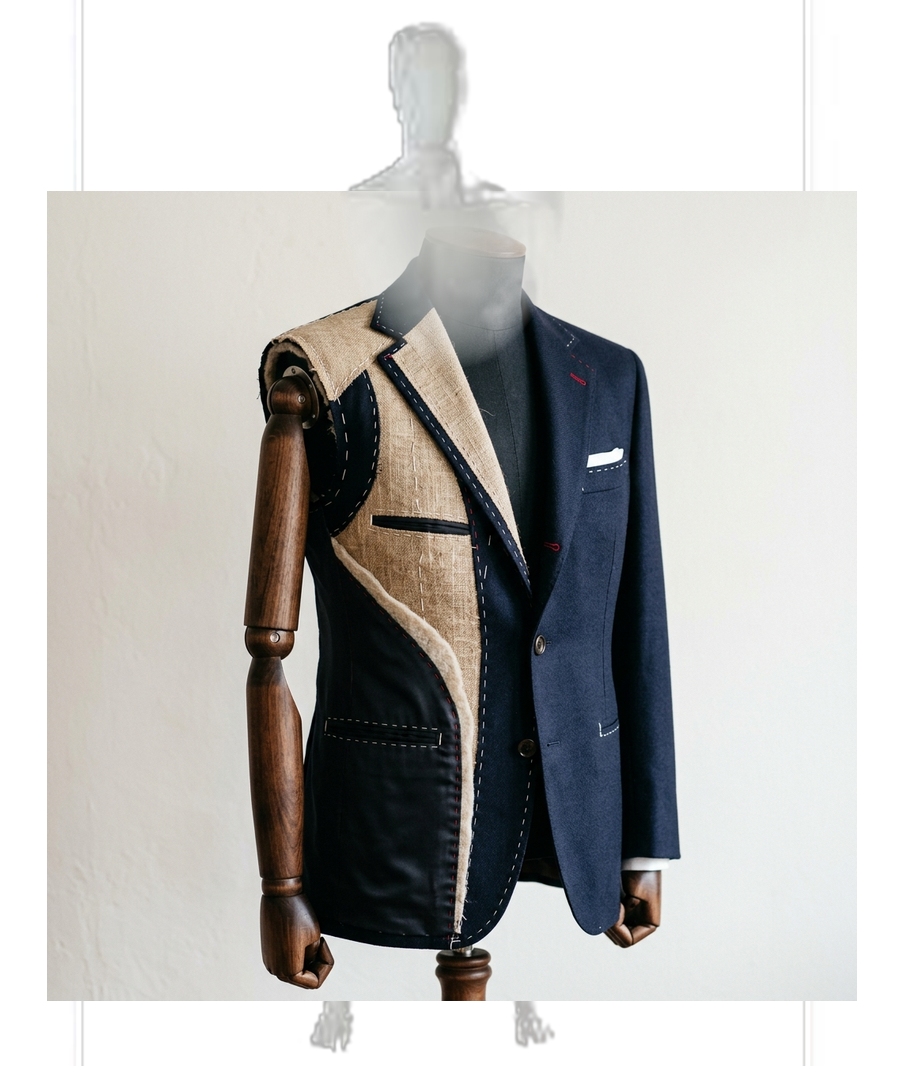
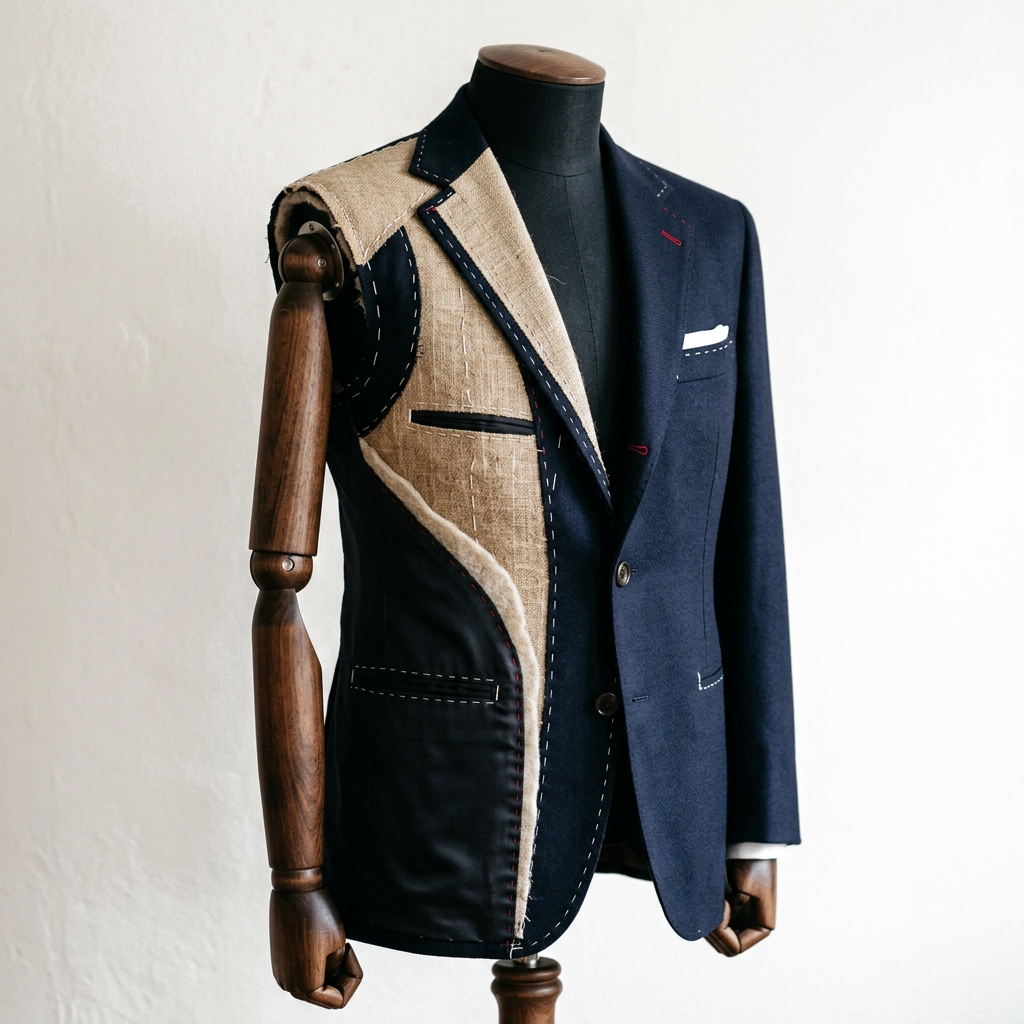
Fix: Remove all background boxes and double mannequins, use clean fresh single isolated suit mannequin per frame

diff --git a/index.html b/index.html
@@ -1244,7 +1244,7 @@
         <div style="max-width:1380px;margin:0 auto;height:100%;position:relative;overflow:hidden;background:#FFFFFF;">
 
           <!-- CENTERED HEADER -->
-          <div style="position:absolute;top:14px;left:0;right:0;z-index:20;text-align:center;">
+          <div style="position:absolute;top:16px;left:0;right:0;z-index:20;text-align:center;">
             <div style="display:flex;align-items:center;justify-content:center;gap:16px;">
               <div style="height:1px;width:60px;background:rgba(28,42,66,.25);"></div>
               <h2 style="font-family:Georgia,serif;font-weight:700;margin:0;color:#0F1A2A;
@@ -1263,10 +1263,10 @@
               <!-- ═══════════════════════════════════════════ -->
               <div style="width:25%;flex-shrink:0;height:100%;position:relative;display:flex;align-items:center;justify-content:center;background:#FFFFFF;">
 
-                <!-- SINGLE HD PHOTOGRAPHIC SUIT ON WHITE MANNEQUIN -->
-                <img src="assets/frame_1_anatomy.png" alt="Charcoal Bespoke Suit HD White Mannequin"
-                  style="height:78vh;max-height:580px;object-fit:contain;position:relative;z-index:5;
-                  filter:drop-shadow(0 16px 32px rgba(0,0,0,.14));">
+                <!-- SINGLE FRESH ISOLATED SUIT MANNEQUIN -->
+                <img src="assets/frame_1_anatomy.png" alt="Charcoal Bespoke Suit Mannequin"
+                  style="height:72vh;max-height:540px;object-fit:contain;position:relative;z-index:5;
+                  filter:drop-shadow(0 16px 32px rgba(0,0,0,.12));">
 
                 <!-- LEFT CIRCULAR DETAIL BADGES (UNIQUE MACRO PHOTOS) -->
                 <div style="position:absolute;left:32px;top:15%;z-index:10;display:flex;align-items:center;gap:12px;width:220px;">
@@ -1339,28 +1339,28 @@
                 <!-- SVG L-SHAPED POINTER LINES -->
                 <svg viewBox="0 0 1000 600" style="position:absolute;inset:0;width:100%;height:100%;pointer-events:none;z-index:8;overflow:visible;">
                   <!-- Left Line 1: Shoulder -->
-                  <polyline points="180,120 350,120 350,155 425,155" stroke="#1C2A42" stroke-width="1.8" stroke-dasharray="6,4" fill="none" opacity=".8"/>
-                  <circle cx="425" cy="155" r="5" fill="#FFFFFF" stroke="#1C2A42" stroke-width="2.5"/><circle cx="425" cy="155" r="2" fill="#1C2A42"/>
+                  <polyline points="180,120 350,120 350,160 425,160" stroke="#1C2A42" stroke-width="1.8" stroke-dasharray="6,4" fill="none" opacity=".8"/>
+                  <circle cx="425" cy="160" r="5" fill="#FFFFFF" stroke="#1C2A42" stroke-width="2.5"/><circle cx="425" cy="160" r="2" fill="#1C2A42"/>
 
                   <!-- Left Line 2: Milanese -->
-                  <polyline points="180,250 360,250 360,205 460,205" stroke="#1C2A42" stroke-width="1.8" stroke-dasharray="6,4" fill="none" opacity=".8"/>
-                  <circle cx="460" cy="205" r="5" fill="#FFFFFF" stroke="#1C2A42" stroke-width="2.5"/><circle cx="460" cy="205" r="2" fill="#1C2A42"/>
+                  <polyline points="180,250 360,250 360,210 455,210" stroke="#1C2A42" stroke-width="1.8" stroke-dasharray="6,4" fill="none" opacity=".8"/>
+                  <circle cx="455" cy="210" r="5" fill="#FFFFFF" stroke="#1C2A42" stroke-width="2.5"/><circle cx="455" cy="210" r="2" fill="#1C2A42"/>
 
                   <!-- Left Line 3: Sweat Shields -->
-                  <polyline points="180,380 340,380 340,285 440,285" stroke="#1C2A42" stroke-width="1.8" stroke-dasharray="6,4" fill="none" opacity=".8"/>
-                  <circle cx="440" cy="285" r="5" fill="#FFFFFF" stroke="#1C2A42" stroke-width="2.5"/><circle cx="440" cy="285" r="2" fill="#1C2A42"/>
+                  <polyline points="180,380 340,380 340,295 445,295" stroke="#1C2A42" stroke-width="1.8" stroke-dasharray="6,4" fill="none" opacity=".8"/>
+                  <circle cx="445" cy="295" r="5" fill="#FFFFFF" stroke="#1C2A42" stroke-width="2.5"/><circle cx="445" cy="295" r="2" fill="#1C2A42"/>
 
                   <!-- Right Line 1: Peak Lapel -->
-                  <polyline points="820,120 650,120 650,195 540,195" stroke="#8B3A2B" stroke-width="1.8" stroke-dasharray="6,4" fill="none" opacity=".8"/>
-                  <circle cx="540" cy="195" r="5" fill="#FFFFFF" stroke="#8B3A2B" stroke-width="2.5"/><circle cx="540" cy="195" r="2" fill="#8B3A2B"/>
+                  <polyline points="820,120 650,120 650,210 545,210" stroke="#8B3A2B" stroke-width="1.8" stroke-dasharray="6,4" fill="none" opacity=".8"/>
+                  <circle cx="545" cy="210" r="5" fill="#FFFFFF" stroke="#8B3A2B" stroke-width="2.5"/><circle cx="545" cy="210" r="2" fill="#8B3A2B"/>
 
                   <!-- Right Line 2: Surgeons Cuffs -->
-                  <polyline points="820,250 680,250 680,325 580,325" stroke="#8B3A2B" stroke-width="1.8" stroke-dasharray="6,4" fill="none" opacity=".8"/>
-                  <circle cx="580" cy="325" r="5" fill="#FFFFFF" stroke="#8B3A2B" stroke-width="2.5"/><circle cx="580" cy="325" r="2" fill="#8B3A2B"/>
+                  <polyline points="820,250 680,250 680,350 585,350" stroke="#8B3A2B" stroke-width="1.8" stroke-dasharray="6,4" fill="none" opacity=".8"/>
+                  <circle cx="585" cy="350" r="5" fill="#FFFFFF" stroke="#8B3A2B" stroke-width="2.5"/><circle cx="585" cy="350" r="2" fill="#8B3A2B"/>
 
                   <!-- Right Line 3: Full Canvas -->
-                  <polyline points="820,380 640,380 640,290 530,290" stroke="#8B3A2B" stroke-width="1.8" stroke-dasharray="6,4" fill="none" opacity=".8"/>
-                  <circle cx="530" cy="290" r="5" fill="#FFFFFF" stroke="#8B3A2B" stroke-width="2.5"/><circle cx="530" cy="290" r="2" fill="#8B3A2B"/>
+                  <polyline points="820,380 640,380 640,295 540,295" stroke="#8B3A2B" stroke-width="1.8" stroke-dasharray="6,4" fill="none" opacity=".8"/>
+                  <circle cx="540" cy="295" r="5" fill="#FFFFFF" stroke="#8B3A2B" stroke-width="2.5"/><circle cx="540" cy="295" r="2" fill="#8B3A2B"/>
                 </svg>
               </div>
 
@@ -1368,10 +1368,10 @@
               <!-- FRAME 2 — COGNAC TWEED   COGNAC THEME      -->
               <!-- ═══════════════════════════════════════════ -->
               <div style="width:25%;flex-shrink:0;height:100%;position:relative;display:flex;align-items:center;justify-content:center;background:#FFFFFF;">
-                <!-- SINGLE HD PHOTOGRAPHIC SUIT ON WHITE MANNEQUIN -->
-                <img src="assets/frame_2_canvas.png" alt="Cognac Tweed Suit HD White Mannequin"
-                  style="height:78vh;max-height:580px;object-fit:contain;position:relative;z-index:5;
-                  filter:drop-shadow(0 16px 32px rgba(0,0,0,.14));">
+                <!-- SINGLE FRESH ISOLATED SUIT MANNEQUIN -->
+                <img src="assets/frame_2_canvas.png" alt="Cognac Tweed Suit Mannequin"
+                  style="height:72vh;max-height:540px;object-fit:contain;position:relative;z-index:5;
+                  filter:drop-shadow(0 16px 32px rgba(0,0,0,.12));">
 
                 <!-- LEFT CIRCULAR DETAIL BADGES (UNIQUE MACRO PHOTOS) -->
                 <div style="position:absolute;left:32px;top:15%;z-index:10;display:flex;align-items:center;gap:12px;width:220px;">
@@ -1443,8 +1443,8 @@
 
                 <!-- SVG L-SHAPED POINTER LINES -->
                 <svg viewBox="0 0 1000 600" style="position:absolute;inset:0;width:100%;height:100%;pointer-events:none;z-index:8;overflow:visible;">
-                  <polyline points="180,120 350,120 350,150 460,150" stroke="#5C2E10" stroke-width="1.8" stroke-dasharray="6,4" fill="none" opacity=".8"/>
-                  <circle cx="460" cy="150" r="5" fill="#FFFFFF" stroke="#5C2E10" stroke-width="2.5"/><circle cx="460" cy="150" r="2" fill="#5C2E10"/>
+                  <polyline points="180,120 350,120 350,160 460,160" stroke="#5C2E10" stroke-width="1.8" stroke-dasharray="6,4" fill="none" opacity=".8"/>
+                  <circle cx="460" cy="160" r="5" fill="#FFFFFF" stroke="#5C2E10" stroke-width="2.5"/><circle cx="460" cy="160" r="2" fill="#5C2E10"/>
 
                   <polyline points="180,250 360,250 360,290 430,290" stroke="#5C2E10" stroke-width="1.8" stroke-dasharray="6,4" fill="none" opacity=".8"/>
                   <circle cx="430" cy="290" r="5" fill="#FFFFFF" stroke="#5C2E10" stroke-width="2.5"/><circle cx="430" cy="290" r="2" fill="#5C2E10"/>
@@ -1452,14 +1452,14 @@
                   <polyline points="180,380 340,380 340,300 500,300" stroke="#5C2E10" stroke-width="1.8" stroke-dasharray="6,4" fill="none" opacity=".8"/>
                   <circle cx="500" cy="300" r="5" fill="#FFFFFF" stroke="#5C2E10" stroke-width="2.5"/><circle cx="500" cy="300" r="2" fill="#5C2E10"/>
 
-                  <polyline points="820,120 650,120 650,200 550,200" stroke="#A06B2A" stroke-width="1.8" stroke-dasharray="6,4" fill="none" opacity=".8"/>
-                  <circle cx="550" cy="200" r="5" fill="#FFFFFF" stroke="#A06B2A" stroke-width="2.5"/><circle cx="550" cy="200" r="2" fill="#A06B2A"/>
+                  <polyline points="820,120 650,120 650,210 550,210" stroke="#A06B2A" stroke-width="1.8" stroke-dasharray="6,4" fill="none" opacity=".8"/>
+                  <circle cx="550" cy="210" r="5" fill="#FFFFFF" stroke="#A06B2A" stroke-width="2.5"/><circle cx="550" cy="210" r="2" fill="#A06B2A"/>
 
-                  <polyline points="820,250 680,250 680,310 570,310" stroke="#A06B2A" stroke-width="1.8" stroke-dasharray="6,4" fill="none" opacity=".8"/>
-                  <circle cx="570" cy="310" r="5" fill="#FFFFFF" stroke="#A06B2A" stroke-width="2.5"/><circle cx="570" cy="310" r="2" fill="#A06B2A"/>
+                  <polyline points="820,250 680,250 680,320 570,320" stroke="#A06B2A" stroke-width="1.8" stroke-dasharray="6,4" fill="none" opacity=".8"/>
+                  <circle cx="570" cy="320" r="5" fill="#FFFFFF" stroke="#A06B2A" stroke-width="2.5"/><circle cx="570" cy="320" r="2" fill="#A06B2A"/>
 
-                  <polyline points="820,380 640,380 640,280 530,280" stroke="#A06B2A" stroke-width="1.8" stroke-dasharray="6,4" fill="none" opacity=".8"/>
-                  <circle cx="530" cy="280" r="5" fill="#FFFFFF" stroke="#A06B2A" stroke-width="2.5"/><circle cx="530" cy="280" r="2" fill="#A06B2A"/>
+                  <polyline points="820,380 640,380 640,295 530,295" stroke="#A06B2A" stroke-width="1.8" stroke-dasharray="6,4" fill="none" opacity=".8"/>
+                  <circle cx="530" cy="295" r="5" fill="#FFFFFF" stroke="#A06B2A" stroke-width="2.5"/><circle cx="530" cy="295" r="2" fill="#A06B2A"/>
                 </svg>
               </div>
 
@@ -1467,10 +1467,10 @@
               <!-- FRAME 3 — NAVY PINSTRIPE  GOLD/NAVY THEME  -->
               <!-- ═══════════════════════════════════════════ -->
               <div style="width:25%;flex-shrink:0;height:100%;position:relative;display:flex;align-items:center;justify-content:center;background:#FFFFFF;">
-                <!-- SINGLE HD PHOTOGRAPHIC SUIT ON WHITE MANNEQUIN -->
-                <img src="assets/frame_3_measure.png" alt="Navy Pinstripe Suit HD White Mannequin"
-                  style="height:78vh;max-height:580px;object-fit:contain;position:relative;z-index:5;
-                  filter:drop-shadow(0 16px 32px rgba(0,0,0,.14));">
+                <!-- SINGLE FRESH ISOLATED SUIT MANNEQUIN -->
+                <img src="assets/frame_3_measure.png" alt="Navy Pinstripe Suit Mannequin"
+                  style="height:72vh;max-height:540px;object-fit:contain;position:relative;z-index:5;
+                  filter:drop-shadow(0 16px 32px rgba(0,0,0,.12));">
 
                 <!-- LEFT CIRCULAR DETAIL BADGES (UNIQUE MACRO PHOTOS) -->
                 <div style="position:absolute;left:32px;top:15%;z-index:10;display:flex;align-items:center;gap:12px;width:220px;">
@@ -1566,10 +1566,10 @@
               <!-- FRAME 4 — VELVET TUXEDO   ROYAL GOLD THEME -->
               <!-- ═══════════════════════════════════════════ -->
               <div style="width:25%;flex-shrink:0;height:100%;position:relative;display:flex;align-items:center;justify-content:center;background:#FFFFFF;">
-                <!-- SINGLE HD PHOTOGRAPHIC SUIT ON WHITE MANNEQUIN -->
-                <img src="assets/frame_4_masterpiece.png" alt="Royal Velvet Tuxedo HD White Mannequin"
-                  style="height:78vh;max-height:580px;object-fit:contain;position:relative;z-index:5;
-                  filter:drop-shadow(0 16px 32px rgba(0,0,0,.14));">
+                <!-- SINGLE FRESH ISOLATED SUIT MANNEQUIN -->
+                <img src="assets/frame_4_masterpiece.png" alt="Royal Velvet Tuxedo Mannequin"
+                  style="height:72vh;max-height:540px;object-fit:contain;position:relative;z-index:5;
+                  filter:drop-shadow(0 16px 32px rgba(0,0,0,.12));">
 
                 <!-- LEFT CIRCULAR DETAIL BADGES (UNIQUE MACRO PHOTOS) -->
                 <div style="position:absolute;left:32px;top:15%;z-index:10;display:flex;align-items:center;gap:12px;width:220px;">

diff --git a/anatomy_section.html b/anatomy_section.html
@@ -8,7 +8,7 @@
         <div style="max-width:1380px;margin:0 auto;height:100%;position:relative;overflow:hidden;background:#FFFFFF;">
 
           <!-- CENTERED HEADER -->
-          <div style="position:absolute;top:14px;left:0;right:0;z-index:20;text-align:center;">
+          <div style="position:absolute;top:16px;left:0;right:0;z-index:20;text-align:center;">
             <div style="display:flex;align-items:center;justify-content:center;gap:16px;">
               <div style="height:1px;width:60px;background:rgba(28,42,66,.25);"></div>
               <h2 style="font-family:Georgia,serif;font-weight:700;margin:0;color:#0F1A2A;
@@ -27,10 +27,10 @@
               <!-- ═══════════════════════════════════════════ -->
               <div style="width:25%;flex-shrink:0;height:100%;position:relative;display:flex;align-items:center;justify-content:center;background:#FFFFFF;">
 
-                <!-- SINGLE HD PHOTOGRAPHIC SUIT ON WHITE MANNEQUIN -->
-                <img src="assets/frame_1_anatomy.png" alt="Charcoal Bespoke Suit HD White Mannequin"
-                  style="height:78vh;max-height:580px;object-fit:contain;position:relative;z-index:5;
-                  filter:drop-shadow(0 16px 32px rgba(0,0,0,.14));">
+                <!-- SINGLE FRESH ISOLATED SUIT MANNEQUIN -->
+                <img src="assets/frame_1_anatomy.png" alt="Charcoal Bespoke Suit Mannequin"
+                  style="height:72vh;max-height:540px;object-fit:contain;position:relative;z-index:5;
+                  filter:drop-shadow(0 16px 32px rgba(0,0,0,.12));">
 
                 <!-- LEFT CIRCULAR DETAIL BADGES (UNIQUE MACRO PHOTOS) -->
                 <div style="position:absolute;left:32px;top:15%;z-index:10;display:flex;align-items:center;gap:12px;width:220px;">
@@ -103,28 +103,28 @@
                 <!-- SVG L-SHAPED POINTER LINES -->
                 <svg viewBox="0 0 1000 600" style="position:absolute;inset:0;width:100%;height:100%;pointer-events:none;z-index:8;overflow:visible;">
                   <!-- Left Line 1: Shoulder -->
-                  <polyline points="180,120 350,120 350,155 425,155" stroke="#1C2A42" stroke-width="1.8" stroke-dasharray="6,4" fill="none" opacity=".8"/>
-                  <circle cx="425" cy="155" r="5" fill="#FFFFFF" stroke="#1C2A42" stroke-width="2.5"/><circle cx="425" cy="155" r="2" fill="#1C2A42"/>
+                  <polyline points="180,120 350,120 350,160 425,160" stroke="#1C2A42" stroke-width="1.8" stroke-dasharray="6,4" fill="none" opacity=".8"/>
+                  <circle cx="425" cy="160" r="5" fill="#FFFFFF" stroke="#1C2A42" stroke-width="2.5"/><circle cx="425" cy="160" r="2" fill="#1C2A42"/>
 
                   <!-- Left Line 2: Milanese -->
-                  <polyline points="180,250 360,250 360,205 460,205" stroke="#1C2A42" stroke-width="1.8" stroke-dasharray="6,4" fill="none" opacity=".8"/>
-                  <circle cx="460" cy="205" r="5" fill="#FFFFFF" stroke="#1C2A42" stroke-width="2.5"/><circle cx="460" cy="205" r="2" fill="#1C2A42"/>
+                  <polyline points="180,250 360,250 360,210 455,210" stroke="#1C2A42" stroke-width="1.8" stroke-dasharray="6,4" fill="none" opacity=".8"/>
+                  <circle cx="455" cy="210" r="5" fill="#FFFFFF" stroke="#1C2A42" stroke-width="2.5"/><circle cx="455" cy="210" r="2" fill="#1C2A42"/>
 
                   <!-- Left Line 3: Sweat Shields -->
-                  <polyline points="180,380 340,380 340,285 440,285" stroke="#1C2A42" stroke-width="1.8" stroke-dasharray="6,4" fill="none" opacity=".8"/>
-                  <circle cx="440" cy="285" r="5" fill="#FFFFFF" stroke="#1C2A42" stroke-width="2.5"/><circle cx="440" cy="285" r="2" fill="#1C2A42"/>
+                  <polyline points="180,380 340,380 340,295 445,295" stroke="#1C2A42" stroke-width="1.8" stroke-dasharray="6,4" fill="none" opacity=".8"/>
+                  <circle cx="445" cy="295" r="5" fill="#FFFFFF" stroke="#1C2A42" stroke-width="2.5"/><circle cx="445" cy="295" r="2" fill="#1C2A42"/>
 
                   <!-- Right Line 1: Peak Lapel -->
-                  <polyline points="820,120 650,120 650,195 540,195" stroke="#8B3A2B" stroke-width="1.8" stroke-dasharray="6,4" fill="none" opacity=".8"/>
-                  <circle cx="540" cy="195" r="5" fill="#FFFFFF" stroke="#8B3A2B" stroke-width="2.5"/><circle cx="540" cy="195" r="2" fill="#8B3A2B"/>
+                  <polyline points="820,120 650,120 650,210 545,210" stroke="#8B3A2B" stroke-width="1.8" stroke-dasharray="6,4" fill="none" opacity=".8"/>
+                  <circle cx="545" cy="210" r="5" fill="#FFFFFF" stroke="#8B3A2B" stroke-width="2.5"/><circle cx="545" cy="210" r="2" fill="#8B3A2B"/>
 
                   <!-- Right Line 2: Surgeons Cuffs -->
-                  <polyline points="820,250 680,250 680,325 580,325" stroke="#8B3A2B" stroke-width="1.8" stroke-dasharray="6,4" fill="none" opacity=".8"/>
-                  <circle cx="580" cy="325" r="5" fill="#FFFFFF" stroke="#8B3A2B" stroke-width="2.5"/><circle cx="580" cy="325" r="2" fill="#8B3A2B"/>
+                  <polyline points="820,250 680,250 680,350 585,350" stroke="#8B3A2B" stroke-width="1.8" stroke-dasharray="6,4" fill="none" opacity=".8"/>
+                  <circle cx="585" cy="350" r="5" fill="#FFFFFF" stroke="#8B3A2B" stroke-width="2.5"/><circle cx="585" cy="350" r="2" fill="#8B3A2B"/>
 
                   <!-- Right Line 3: Full Canvas -->
-                  <polyline points="820,380 640,380 640,290 530,290" stroke="#8B3A2B" stroke-width="1.8" stroke-dasharray="6,4" fill="none" opacity=".8"/>
-                  <circle cx="530" cy="290" r="5" fill="#FFFFFF" stroke="#8B3A2B" stroke-width="2.5"/><circle cx="530" cy="290" r="2" fill="#8B3A2B"/>
+                  <polyline points="820,380 640,380 640,295 540,295" stroke="#8B3A2B" stroke-width="1.8" stroke-dasharray="6,4" fill="none" opacity=".8"/>
+                  <circle cx="540" cy="295" r="5" fill="#FFFFFF" stroke="#8B3A2B" stroke-width="2.5"/><circle cx="540" cy="295" r="2" fill="#8B3A2B"/>
                 </svg>
               </div>
 
@@ -132,10 +132,10 @@
               <!-- FRAME 2 — COGNAC TWEED   COGNAC THEME      -->
               <!-- ═══════════════════════════════════════════ -->
               <div style="width:25%;flex-shrink:0;height:100%;position:relative;display:flex;align-items:center;justify-content:center;background:#FFFFFF;">
-                <!-- SINGLE HD PHOTOGRAPHIC SUIT ON WHITE MANNEQUIN -->
-                <img src="assets/frame_2_canvas.png" alt="Cognac Tweed Suit HD White Mannequin"
-                  style="height:78vh;max-height:580px;object-fit:contain;position:relative;z-index:5;
-                  filter:drop-shadow(0 16px 32px rgba(0,0,0,.14));">
+                <!-- SINGLE FRESH ISOLATED SUIT MANNEQUIN -->
+                <img src="assets/frame_2_canvas.png" alt="Cognac Tweed Suit Mannequin"
+                  style="height:72vh;max-height:540px;object-fit:contain;position:relative;z-index:5;
+                  filter:drop-shadow(0 16px 32px rgba(0,0,0,.12));">
 
                 <!-- LEFT CIRCULAR DETAIL BADGES (UNIQUE MACRO PHOTOS) -->
                 <div style="position:absolute;left:32px;top:15%;z-index:10;display:flex;align-items:center;gap:12px;width:220px;">
@@ -207,8 +207,8 @@
 
                 <!-- SVG L-SHAPED POINTER LINES -->
                 <svg viewBox="0 0 1000 600" style="position:absolute;inset:0;width:100%;height:100%;pointer-events:none;z-index:8;overflow:visible;">
-                  <polyline points="180,120 350,120 350,150 460,150" stroke="#5C2E10" stroke-width="1.8" stroke-dasharray="6,4" fill="none" opacity=".8"/>
-                  <circle cx="460" cy="150" r="5" fill="#FFFFFF" stroke="#5C2E10" stroke-width="2.5"/><circle cx="460" cy="150" r="2" fill="#5C2E10"/>
+                  <polyline points="180,120 350,120 350,160 460,160" stroke="#5C2E10" stroke-width="1.8" stroke-dasharray="6,4" fill="none" opacity=".8"/>
+                  <circle cx="460" cy="160" r="5" fill="#FFFFFF" stroke="#5C2E10" stroke-width="2.5"/><circle cx="460" cy="160" r="2" fill="#5C2E10"/>
 
                   <polyline points="180,250 360,250 360,290 430,290" stroke="#5C2E10" stroke-width="1.8" stroke-dasharray="6,4" fill="none" opacity=".8"/>
                   <circle cx="430" cy="290" r="5" fill="#FFFFFF" stroke="#5C2E10" stroke-width="2.5"/><circle cx="430" cy="290" r="2" fill="#5C2E10"/>
@@ -216,14 +216,14 @@
                   <polyline points="180,380 340,380 340,300 500,300" stroke="#5C2E10" stroke-width="1.8" stroke-dasharray="6,4" fill="none" opacity=".8"/>
                   <circle cx="500" cy="300" r="5" fill="#FFFFFF" stroke="#5C2E10" stroke-width="2.5"/><circle cx="500" cy="300" r="2" fill="#5C2E10"/>
 
-                  <polyline points="820,120 650,120 650,200 550,200" stroke="#A06B2A" stroke-width="1.8" stroke-dasharray="6,4" fill="none" opacity=".8"/>
-                  <circle cx="550" cy="200" r="5" fill="#FFFFFF" stroke="#A06B2A" stroke-width="2.5"/><circle cx="550" cy="200" r="2" fill="#A06B2A"/>
+                  <polyline points="820,120 650,120 650,210 550,210" stroke="#A06B2A" stroke-width="1.8" stroke-dasharray="6,4" fill="none" opacity=".8"/>
+                  <circle cx="550" cy="210" r="5" fill="#FFFFFF" stroke="#A06B2A" stroke-width="2.5"/><circle cx="550" cy="210" r="2" fill="#A06B2A"/>
 
-                  <polyline points="820,250 680,250 680,310 570,310" stroke="#A06B2A" stroke-width="1.8" stroke-dasharray="6,4" fill="none" opacity=".8"/>
-                  <circle cx="570" cy="310" r="5" fill="#FFFFFF" stroke="#A06B2A" stroke-width="2.5"/><circle cx="570" cy="310" r="2" fill="#A06B2A"/>
+                  <polyline points="820,250 680,250 680,320 570,320" stroke="#A06B2A" stroke-width="1.8" stroke-dasharray="6,4" fill="none" opacity=".8"/>
+                  <circle cx="570" cy="320" r="5" fill="#FFFFFF" stroke="#A06B2A" stroke-width="2.5"/><circle cx="570" cy="320" r="2" fill="#A06B2A"/>
 
-                  <polyline points="820,380 640,380 640,280 530,280" stroke="#A06B2A" stroke-width="1.8" stroke-dasharray="6,4" fill="none" opacity=".8"/>
-                  <circle cx="530" cy="280" r="5" fill="#FFFFFF" stroke="#A06B2A" stroke-width="2.5"/><circle cx="530" cy="280" r="2" fill="#A06B2A"/>
+                  <polyline points="820,380 640,380 640,295 530,295" stroke="#A06B2A" stroke-width="1.8" stroke-dasharray="6,4" fill="none" opacity=".8"/>
+                  <circle cx="530" cy="295" r="5" fill="#FFFFFF" stroke="#A06B2A" stroke-width="2.5"/><circle cx="530" cy="295" r="2" fill="#A06B2A"/>
                 </svg>
               </div>
 
@@ -231,10 +231,10 @@
               <!-- FRAME 3 — NAVY PINSTRIPE  GOLD/NAVY THEME  -->
               <!-- ═══════════════════════════════════════════ -->
               <div style="width:25%;flex-shrink:0;height:100%;position:relative;display:flex;align-items:center;justify-content:center;background:#FFFFFF;">
-                <!-- SINGLE HD PHOTOGRAPHIC SUIT ON WHITE MANNEQUIN -->
-                <img src="assets/frame_3_measure.png" alt="Navy Pinstripe Suit HD White Mannequin"
-                  style="height:78vh;max-height:580px;object-fit:contain;position:relative;z-index:5;
-                  filter:drop-shadow(0 16px 32px rgba(0,0,0,.14));">
+                <!-- SINGLE FRESH ISOLATED SUIT MANNEQUIN -->
+                <img src="assets/frame_3_measure.png" alt="Navy Pinstripe Suit Mannequin"
+                  style="height:72vh;max-height:540px;object-fit:contain;position:relative;z-index:5;
+                  filter:drop-shadow(0 16px 32px rgba(0,0,0,.12));">
 
                 <!-- LEFT CIRCULAR DETAIL BADGES (UNIQUE MACRO PHOTOS) -->
                 <div style="position:absolute;left:32px;top:15%;z-index:10;display:flex;align-items:center;gap:12px;width:220px;">
@@ -330,10 +330,10 @@
               <!-- FRAME 4 — VELVET TUXEDO   ROYAL GOLD THEME -->
               <!-- ═══════════════════════════════════════════ -->
               <div style="width:25%;flex-shrink:0;height:100%;position:relative;display:flex;align-items:center;justify-content:center;background:#FFFFFF;">
-                <!-- SINGLE HD PHOTOGRAPHIC SUIT ON WHITE MANNEQUIN -->
-                <img src="assets/frame_4_masterpiece.png" alt="Royal Velvet Tuxedo HD White Mannequin"
-                  style="height:78vh;max-height:580px;object-fit:contain;position:relative;z-index:5;
-                  filter:drop-shadow(0 16px 32px rgba(0,0,0,.14));">
+                <!-- SINGLE FRESH ISOLATED SUIT MANNEQUIN -->
+                <img src="assets/frame_4_masterpiece.png" alt="Royal Velvet Tuxedo Mannequin"
+                  style="height:72vh;max-height:540px;object-fit:contain;position:relative;z-index:5;
+                  filter:drop-shadow(0 16px 32px rgba(0,0,0,.12));">
 
                 <!-- LEFT CIRCULAR DETAIL BADGES (UNIQUE MACRO PHOTOS) -->
                 <div style="position:absolute;left:32px;top:15%;z-index:10;display:flex;align-items:center;gap:12px;width:220px;">
